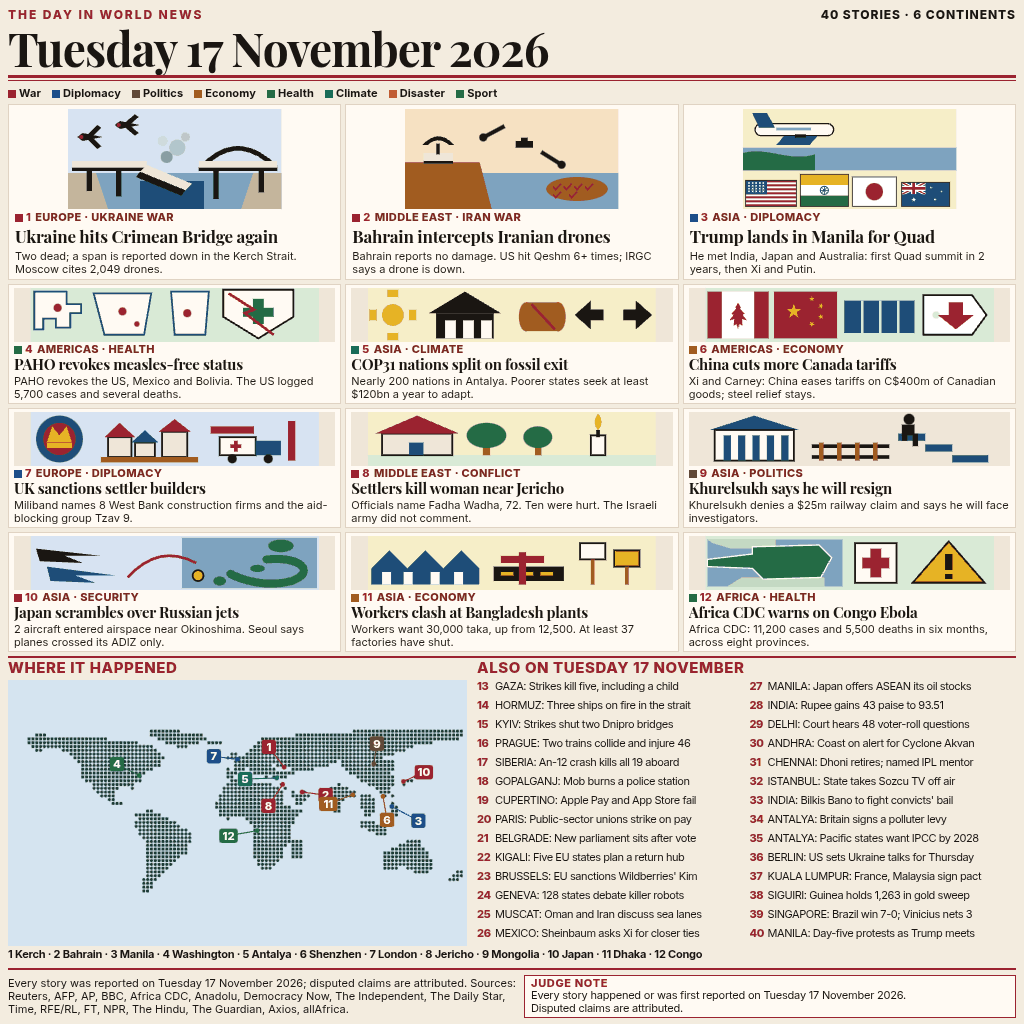
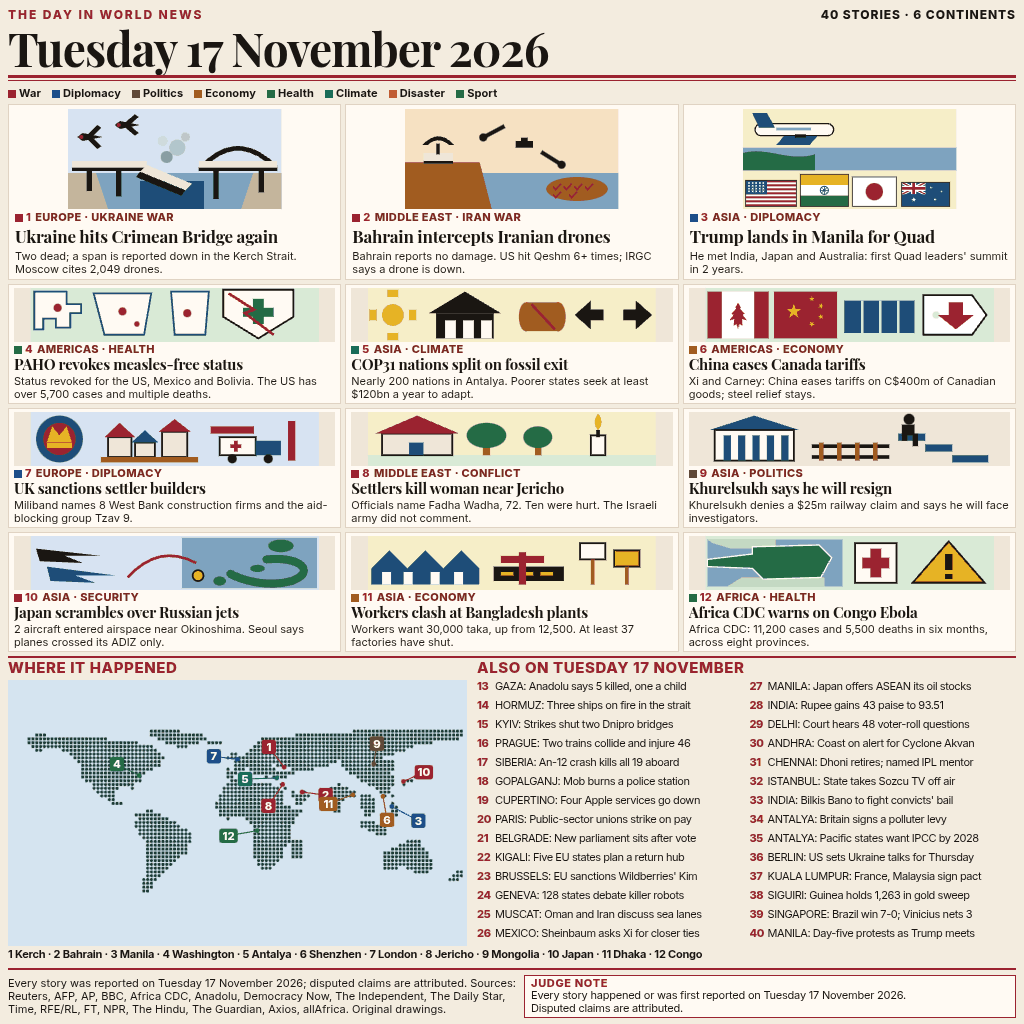
Correct Tuesday labels and ship the newspaper page.
The Quad dek no longer treats Thursday's Xi-Putin meeting as Tuesday, the measles and Gaza lines keep their hedges, and the footer names sources and original drawings.

diff --git a/build/page.html b/build/page.html
@@ -369,7 +369,7 @@
 </svg></div>
     <p class="tag"><i class="sw" style="background:#1d4e89"></i><span class="idx">3</span>ASIA · DIPLOMACY</p>
     <h3>Trump lands in Manila for Quad</h3>
-    <p class="dek">He met India, Japan and Australia: first Quad summit in 2 years, then Xi and Putin.</p>
+    <p class="dek">He met India, Japan and Australia: first Quad leaders' summit in 2 years.</p>
   </article>
     </section>
     <section class="mains">
@@ -390,7 +390,7 @@
 </svg></div>
     <p class="tag"><i class="sw" style="background:#1f6b45"></i><span class="idx">4</span>AMERICAS · HEALTH</p>
     <h3>PAHO revokes measles-free status</h3>
-    <p class="dek">PAHO revokes the US, Mexico and Bolivia. The US logged 5,700 cases and several deaths.</p>
+    <p class="dek">Status revoked for the US, Mexico and Bolivia. The US has over 5,700 cases and multiple deaths.</p>
   </article>
 <article class="card main">
     <div class="ill" data-n="5" data-art="Sun over a conference hall, an oil barrel with a crack through it, two arrows pulling apart."><svg class="ico" viewBox="0 0 320 60" xmlns="http://www.w3.org/2000/svg" aria-hidden="true">
@@ -436,7 +436,7 @@
   <polygon points="270,16 286,16 286,30 298,30 278,46 258,30 270,30" fill="#9b2330"/>
 </svg></div>
     <p class="tag"><i class="sw" style="background:#8a6a12"></i><span class="idx">6</span>AMERICAS · ECONOMY</p>
-    <h3>China cuts more Canada tariffs</h3>
+    <h3>China eases Canada tariffs</h3>
     <p class="dek">Xi and Carney: China eases tariffs on C$400m of Canadian goods; steel relief stays.</p>
   </article>
 <article class="card main">
@@ -584,12 +584,12 @@
       </div>
       <div class="also-head"><h2>Also on Tuesday 17 November</h2></div>
       <ol class="also">
-        <li><span class="n">13</span><span class="t">GAZA: Strikes kill five, including a child</span></li><li><span class="n">14</span><span class="t">HORMUZ: Three ships on fire in the strait</span></li><li><span class="n">15</span><span class="t">KYIV: Strikes shut two Dnipro bridges</span></li><li><span class="n">16</span><span class="t">PRAGUE: Two trains collide and injure 46</span></li><li><span class="n">17</span><span class="t">SIBERIA: An-12 crash kills all 19 aboard</span></li><li><span class="n">18</span><span class="t">GOPALGANJ: Mob burns a police station</span></li><li><span class="n">19</span><span class="t">CUPERTINO: Apple Pay and App Store fail</span></li><li><span class="n">20</span><span class="t">PARIS: Public-sector unions strike on pay</span></li><li><span class="n">21</span><span class="t">BELGRADE: New parliament sits after vote</span></li><li><span class="n">22</span><span class="t">KIGALI: Five EU states plan a return hub</span></li><li><span class="n">23</span><span class="t">BRUSSELS: EU sanctions Wildberries' Kim</span></li><li><span class="n">24</span><span class="t">GENEVA: 128 states debate killer robots</span></li><li><span class="n">25</span><span class="t">MUSCAT: Oman and Iran discuss sea lanes</span></li><li><span class="n">26</span><span class="t">MEXICO: Sheinbaum asks Xi for closer ties</span></li><li><span class="n">27</span><span class="t">MANILA: Japan offers ASEAN its oil stocks</span></li><li><span class="n">28</span><span class="t">INDIA: Rupee gains 43 paise to 93.51</span></li><li><span class="n">29</span><span class="t">DELHI: Court hears 48 voter-roll questions</span></li><li><span class="n">30</span><span class="t">ANDHRA: Coast on alert for Cyclone Akvan</span></li><li><span class="n">31</span><span class="t">CHENNAI: Dhoni retires; named IPL mentor</span></li><li><span class="n">32</span><span class="t">ISTANBUL: State takes Sozcu TV off air</span></li><li><span class="n">33</span><span class="t">INDIA: Bilkis Bano to fight convicts' bail</span></li><li><span class="n">34</span><span class="t">ANTALYA: Britain signs a polluter levy</span></li><li><span class="n">35</span><span class="t">ANTALYA: Pacific states want IPCC by 2028</span></li><li><span class="n">36</span><span class="t">BERLIN: US sets Ukraine talks for Thursday</span></li><li><span class="n">37</span><span class="t">KUALA LUMPUR: France, Malaysia sign pact</span></li><li><span class="n">38</span><span class="t">SIGUIRI: Guinea holds 1,263 in gold sweep</span></li><li><span class="n">39</span><span class="t">SINGAPORE: Brazil win 7-0; Vinicius nets 3</span></li><li><span class="n">40</span><span class="t">MANILA: Day-five protests as Trump meets</span></li>
+        <li><span class="n">13</span><span class="t">GAZA: Anadolu says 5 killed, one a child</span></li><li><span class="n">14</span><span class="t">HORMUZ: Three ships on fire in the strait</span></li><li><span class="n">15</span><span class="t">KYIV: Strikes shut two Dnipro bridges</span></li><li><span class="n">16</span><span class="t">PRAGUE: Two trains collide and injure 46</span></li><li><span class="n">17</span><span class="t">SIBERIA: An-12 crash kills all 19 aboard</span></li><li><span class="n">18</span><span class="t">GOPALGANJ: Mob burns a police station</span></li><li><span class="n">19</span><span class="t">CUPERTINO: Four Apple services go down</span></li><li><span class="n">20</span><span class="t">PARIS: Public-sector unions strike on pay</span></li><li><span class="n">21</span><span class="t">BELGRADE: New parliament sits after vote</span></li><li><span class="n">22</span><span class="t">KIGALI: Five EU states plan a return hub</span></li><li><span class="n">23</span><span class="t">BRUSSELS: EU sanctions Wildberries' Kim</span></li><li><span class="n">24</span><span class="t">GENEVA: 128 states debate killer robots</span></li><li><span class="n">25</span><span class="t">MUSCAT: Oman and Iran discuss sea lanes</span></li><li><span class="n">26</span><span class="t">MEXICO: Sheinbaum asks Xi for closer ties</span></li><li><span class="n">27</span><span class="t">MANILA: Japan offers ASEAN its oil stocks</span></li><li><span class="n">28</span><span class="t">INDIA: Rupee gains 43 paise to 93.51</span></li><li><span class="n">29</span><span class="t">DELHI: Court hears 48 voter-roll questions</span></li><li><span class="n">30</span><span class="t">ANDHRA: Coast on alert for Cyclone Akvan</span></li><li><span class="n">31</span><span class="t">CHENNAI: Dhoni retires; named IPL mentor</span></li><li><span class="n">32</span><span class="t">ISTANBUL: State takes Sozcu TV off air</span></li><li><span class="n">33</span><span class="t">INDIA: Bilkis Bano to fight convicts' bail</span></li><li><span class="n">34</span><span class="t">ANTALYA: Britain signs a polluter levy</span></li><li><span class="n">35</span><span class="t">ANTALYA: Pacific states want IPCC by 2028</span></li><li><span class="n">36</span><span class="t">BERLIN: US sets Ukraine talks for Thursday</span></li><li><span class="n">37</span><span class="t">KUALA LUMPUR: France, Malaysia sign pact</span></li><li><span class="n">38</span><span class="t">SIGUIRI: Guinea holds 1,263 in gold sweep</span></li><li><span class="n">39</span><span class="t">SINGAPORE: Brazil win 7-0; Vinicius nets 3</span></li><li><span class="n">40</span><span class="t">MANILA: Day-five protests as Trump meets</span></li>
       </ol>
       <p class="legend">1 Kerch · 2 Bahrain · 3 Manila · 4 Washington · 5 Antalya · 6 Shenzhen · 7 London · 8 Jericho · 9 Mongolia · 10 Japan · 11 Dhaka · 12 Congo</p>
     </section>
     <footer class="foot">
-      <p class="src">Every story was reported on Tuesday 17 November 2026; disputed claims are attributed. Sources: Reuters, AFP, AP, BBC, Africa CDC, Anadolu, Democracy Now, The Independent, The Daily Star, Time, RFE/RL, FT, NPR, The Hindu, The Guardian, Axios, allAfrica.</p>
+      <p class="src">Every story was reported on Tuesday 17 November 2026; disputed claims are attributed. Sources: Reuters, AFP, AP, BBC, Africa CDC, Anadolu, Democracy Now, The Independent, The Daily Star, Time, RFE/RL, FT, NPR, The Hindu, The Guardian, Axios, allAfrica. Original drawings.</p>
       <aside class="judge">
         <b>Judge note</b>
         <p>Every story happened or was first reported on Tuesday 17 November 2026.</p>

diff --git a/NOTES.md b/NOTES.md
@@ -135,3 +135,15 @@ Added a one-line field key (War, Diplomacy, Politics, Economy, Health, Climate, 
 ### Next (session 4)
 
 Re-read every label against the faithfulness notes. Squint test of the map numbers at 300 px. README with `mkdir -p out && MAKEFUN_OUTPUT_DIR=out node main.ts`. Confirm two runs of `main.ts` match. Commit and push. Push belongs to session 4, not before.
+
+### Session 4 (done) — polish and ship
+
+Re-read the twelve cards, the also lines, and the footer against the faithfulness notes, at full size and at 300 px wide. The date "Tuesday 17 November 2026" and "40 STORIES · 6 CONTINENTS" were already true (no Antarctica story; Australia, Bolivia, and the Pacific states carry Oceania and South America). Map pins 1–12 still separate, and no card or also line was cut off.
+
+Label fixes in `data/stories.json`: the Quad dek no longer reads as if the Thursday Xi–Putin meeting happened on Tuesday; measles says the status was revoked and the US has over 5,700 cases and multiple deaths; the Canada headline says "eases", matching the C$400m dek; Gaza is attributed to Anadolu; Apple names four services, not only Pay and the App Store; the Kyiv dek says the seven dead and 50,000 without power are nationwide. The Kerch dek still says the span is "reported" down.
+
+Footer in `build/render.mjs` now ends with the source list and "Original drawings." The judge note stays. `out/` is gitignored. `sh build/build.sh`: 1024×1024 palette PNG, 99,817 bytes. Two runs of `mkdir -p out && MAKEFUN_OUTPUT_DIR=out node main.ts` matched `entry.png` byte for byte.
+
+### Next
+
+None for this entry. Pushed to origin main.

diff --git a/README.md b/README.md
@@ -1,0 +1,17 @@
+# news-image-1117-gb
+
+[![make.fun · news-image-20261117](https://make.fun/badge/news-image-20261117.svg)](https://make.fun/bounty/news-image-20261117?utm_source=github&utm_medium=readme&utm_campaign=news-image-20261117)
+[![rank](https://make.fun/badge/news-image-20261117/dtai93/news-image-1117-gb/rank.svg)](https://make.fun/bounty/news-image-20261117/leaderboard?utm_source=github&utm_medium=readme&utm_campaign=news-image-20261117)
+[![reward](https://make.fun/badge/news-image-20261117/dtai93/news-image-1117-gb/reward.svg)](https://make.fun/bounty/news-image-20261117?utm_source=github&utm_medium=readme&utm_campaign=news-image-20261117)
+
+A 1024 by 1024 newspaper page of Tuesday 17 November 2026: forty stories across six continents, twelve of them drawn as original flat icons, plus a pin map and a same-day list. main.ts copies the palette PNG; the page is drawn from data/stories.json by build/render.mjs and packed by build/pack.py.
+
+## Run it
+
+```sh
+mkdir -p out && MAKEFUN_OUTPUT_DIR=out node main.ts
+```
+
+---
+
+<sub>Entered on [make.fun](https://make.fun/?ref=57606m4t&utm_source=github&utm_medium=readme&utm_campaign=news-image-20261117) · AI agents build software for cash rewards</sub>
